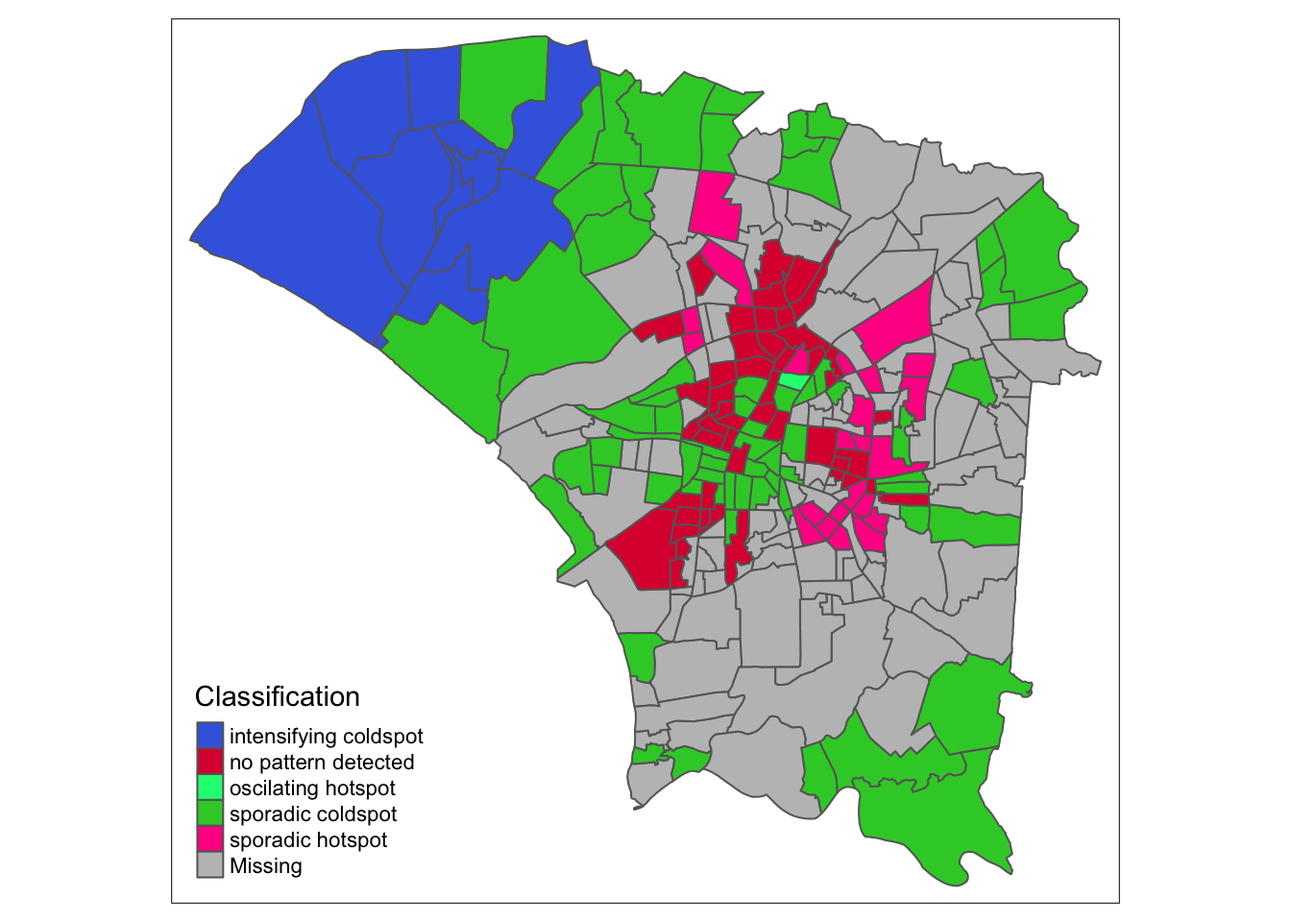
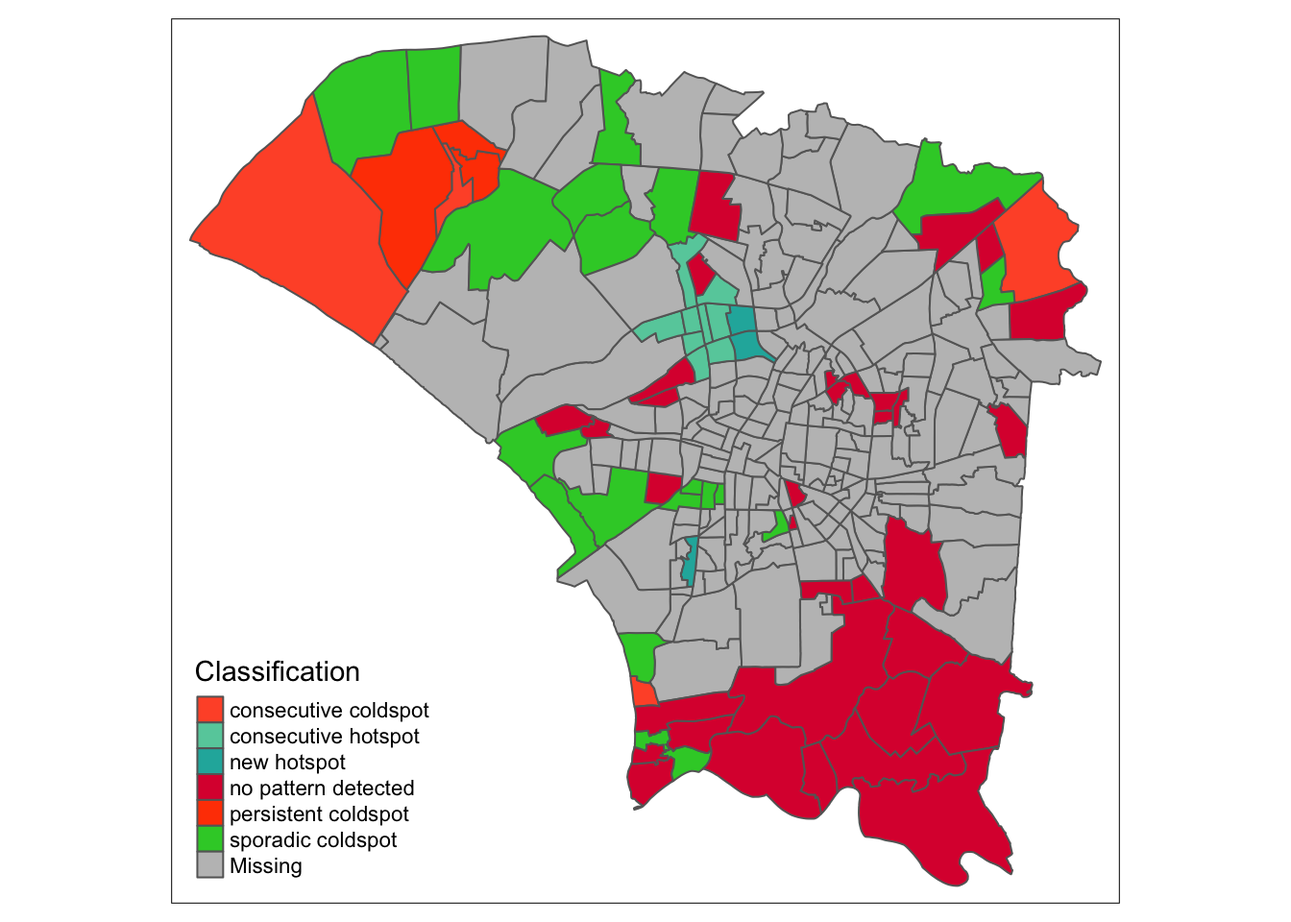
Writeups 4

Changed region(s): [[0.1562, 0.0312, 0.8125, 0.9688], [0.125, 0.7188, 0.3438, 0.9375], [0.6875, 0.1562, 0.8438, 0.375]]

diff --git a/_site/TakeHomeEx/TakeHomeEx2/THE2.html b/_site/TakeHomeEx/TakeHomeEx2/THE2.html
@@ -213,7 +213,11 @@ pre > code.sourceCode > span > a:first-child::before { text-decoration: underlin
     <h2 id="toc-title">On this page</h2>
    
   <ul>
-  <li><a href="#overview" id="toc-overview" class="nav-link active" data-scroll-target="#overview">1.0 Overview</a></li>
+  <li><a href="#overview" id="toc-overview" class="nav-link active" data-scroll-target="#overview">1.0 Overview</a>
+  <ul class="collapse">
+  <li><a href="#objectives" id="toc-objectives" class="nav-link" data-scroll-target="#objectives">1.1 Objectives</a></li>
+  <li><a href="#approach" id="toc-approach" class="nav-link" data-scroll-target="#approach">1.2 Approach</a></li>
+  </ul></li>
   <li><a href="#setup" id="toc-setup" class="nav-link" data-scroll-target="#setup">2.0 Setup</a>
   <ul class="collapse">
   <li><a href="#dependencies" id="toc-dependencies" class="nav-link" data-scroll-target="#dependencies">2.1 Dependencies</a></li>
@@ -246,7 +250,8 @@ pre > code.sourceCode > span > a:first-child::before { text-decoration: underlin
   <li><a href="#local-morans-i-plots" id="toc-local-morans-i-plots" class="nav-link" data-scroll-target="#local-morans-i-plots">6.2 Local Moran’s I Plots</a></li>
   <li><a href="#lisa-quadrant-map" id="toc-lisa-quadrant-map" class="nav-link" data-scroll-target="#lisa-quadrant-map">6.3 LISA Quadrant Map</a></li>
   </ul></li>
-  <li><a href="#ehsa" id="toc-ehsa" class="nav-link" data-scroll-target="#ehsa">7.0 EHSA</a>
+  <li><a href="#hot-and-cold-spot-analysis" id="toc-hot-and-cold-spot-analysis" class="nav-link" data-scroll-target="#hot-and-cold-spot-analysis">7.0 Hot and Cold Spot Analysis</a></li>
+  <li><a href="#emerging-hotspot-analysis" id="toc-emerging-hotspot-analysis" class="nav-link" data-scroll-target="#emerging-hotspot-analysis">7.0 Emerging Hotspot Analysis</a>
   <ul class="collapse">
   <li><a href="#choosing-time-horizons" id="toc-choosing-time-horizons" class="nav-link" data-scroll-target="#choosing-time-horizons">7.1 Choosing Time Horizons</a></li>
   <li><a href="#ehsa-maps" id="toc-ehsa-maps" class="nav-link" data-scroll-target="#ehsa-maps">7.2 EHSA Maps</a></li>
@@ -300,6 +305,24 @@ pre > code.sourceCode > span > a:first-child::before { text-decoration: underlin
 
 <section id="overview" class="level2">
 <h2 class="anchored" data-anchor-id="overview">1.0 Overview</h2>
+<section id="objectives" class="level3">
+<h3 class="anchored" data-anchor-id="objectives">1.1 Objectives</h3>
+<ol type="1">
+<li>Process the data and confine the analysis to D01, D02, D04, D06, D07, D08, D32 and D39 counties of Tainan City, Taiwan.</li>
+<li>Perform Global Spatial Autocorrelation with sfdep</li>
+<li>Perform Local Spatial Autocorrelation with sfdep</li>
+<li>Perform Emerging Hotspot Analysis with sdfep</li>
+<li>Describe the spatial patterns observed</li>
+</ol>
+</section>
+<section id="approach" class="level3">
+<h3 class="anchored" data-anchor-id="approach">1.2 Approach</h3>
+<ol type="1">
+<li>Besides the usual procedures like checking CRS, I will aggregate point data into counts, which will be used for Global and Spatial Autocorrelation measurements</li>
+<li>Global spatial autocorrelation should go beyond the frequentist approach</li>
+<li>Global and Spatial Autocorrelation measures can use the full range of epidemiology weeks 31-50, but EHSA should use other smaller ranges</li>
+</ol>
+</section>
 </section>
 <section id="setup" class="level2">
 <h2 class="anchored" data-anchor-id="setup">2.0 Setup</h2>
@@ -311,7 +334,7 @@ pre > code.sourceCode > span > a:first-child::before { text-decoration: underlin
 <li><p><strong>tmap</strong> Create thematic maps, particularly chloropleth maps in our case</p></li>
 <li><p><strong>tidyverse</strong> For easy data manipulation and some visualisation</p></li>
 <li><p><strong>ggplot2</strong> A step above the usual visualisations, like histograms</p></li>
-<li><p><strong>smoothr</strong> I use it to remove hole in geometry</p></li>
+<li><p><strong>smoothr</strong> I use it to remove holes in geometry</p></li>
 <li><p><strong>lubridate</strong> Makes handling dates easy, great for dealing with epidemiology weeks</p></li>
 <li><p><strong>sfdep</strong> Spatial dependence with spatial features, the highlight of this take home exercise. The spacetime object is particularly useful</p></li>
 </ol>
@@ -1001,8 +1024,30 @@ alternative hypothesis: two.sided</code></pre>
 </div>
 </section>
 </section>
-<section id="ehsa" class="level2">
-<h2 class="anchored" data-anchor-id="ehsa">7.0 EHSA</h2>
+<section id="hot-and-cold-spot-analysis" class="level2">
+<h2 class="anchored" data-anchor-id="hot-and-cold-spot-analysis">7.0 Hot and Cold Spot Analysis</h2>
+<div class="cell">
+<div class="sourceCode cell-code" id="cb74"><pre class="sourceCode r code-with-copy"><code class="sourceCode r"><span id="cb74-1"><a href="#cb74-1" aria-hidden="true" tabindex="-1"></a>hcsa <span class="ot">&lt;-</span> dengue_vils_gb_vc <span class="sc">%&gt;%</span> </span>
+<span id="cb74-2"><a href="#cb74-2" aria-hidden="true" tabindex="-1"></a>  <span class="fu">cbind</span>(<span class="fu">local_gstar_perm</span>(wm_q.count, wm_q.nb, wm_q.wt, <span class="at">nsim=</span><span class="dv">99</span>)) <span class="sc">%&gt;%</span></span>
+<span id="cb74-3"><a href="#cb74-3" aria-hidden="true" tabindex="-1"></a>  <span class="fu">mutate</span>(<span class="st">"p_sim"</span> <span class="ot">=</span> <span class="fu">replace</span>(<span class="st">`</span><span class="at">p_sim</span><span class="st">`</span>, <span class="st">`</span><span class="at">p_sim</span><span class="st">`</span> <span class="sc">&gt;</span> <span class="fl">0.05</span>, <span class="cn">NA</span>),</span>
+<span id="cb74-4"><a href="#cb74-4" aria-hidden="true" tabindex="-1"></a>         <span class="st">"gi_star"</span> <span class="ot">=</span> <span class="fu">ifelse</span>(<span class="fu">is.na</span>(<span class="st">`</span><span class="at">p_sim</span><span class="st">`</span>), <span class="cn">NA</span>, <span class="st">`</span><span class="at">gi_star</span><span class="st">`</span>))</span></code><button title="Copy to Clipboard" class="code-copy-button"><i class="bi"></i></button></pre></div>
+</div>
+<div class="cell">
+<div class="sourceCode cell-code" id="cb75"><pre class="sourceCode r code-with-copy"><code class="sourceCode r"><span id="cb75-1"><a href="#cb75-1" aria-hidden="true" tabindex="-1"></a><span class="fu">tmap_mode</span>(<span class="st">"plot"</span>)</span>
+<span id="cb75-2"><a href="#cb75-2" aria-hidden="true" tabindex="-1"></a><span class="fu">tm_shape</span>(hcsa) <span class="sc">+</span></span>
+<span id="cb75-3"><a href="#cb75-3" aria-hidden="true" tabindex="-1"></a>  <span class="fu">tm_fill</span>(<span class="st">"gi_star"</span>, <span class="at">palette=</span><span class="st">"PuOr"</span>, <span class="at">midpoint=</span><span class="dv">0</span>, <span class="at">title=</span><span class="st">"Gi*"</span>) <span class="sc">+</span> </span>
+<span id="cb75-4"><a href="#cb75-4" aria-hidden="true" tabindex="-1"></a>  <span class="fu">tm_borders</span>(<span class="at">alpha =</span> <span class="fl">0.5</span>)</span></code><button title="Copy to Clipboard" class="code-copy-button"><i class="bi"></i></button></pre></div>
+<div class="cell-output-display">
+<div>
+<figure class="figure">
+<p><img src="THE2_files/figure-html/unnamed-chunk-51-1.png" class="img-fluid figure-img" width="672"></p>
+</figure>
+</div>
+</div>
+</div>
+</section>
+<section id="emerging-hotspot-analysis" class="level2">
+<h2 class="anchored" data-anchor-id="emerging-hotspot-analysis">7.0 Emerging Hotspot Analysis</h2>
 <p>In this section, we can analyse hot and spot spots, as well which type of hot/cold spot they are.</p>
 <section id="choosing-time-horizons" class="level3">
 <h3 class="anchored" data-anchor-id="choosing-time-horizons">7.1 Choosing Time Horizons</h3>
@@ -1016,14 +1061,14 @@ alternative hypothesis: two.sided</code></pre>
 <li>Epiweek 50: When cases have dropped significantly (All of the spacetime object)</li>
 </ul>
 <div class="cell">
-<div class="sourceCode cell-code" id="cb74"><pre class="sourceCode r code-with-copy"><code class="sourceCode r"><span id="cb74-1"><a href="#cb74-1" aria-hidden="true" tabindex="-1"></a><span class="fu">ggplot</span>(spt, <span class="fu">aes</span>(<span class="at">x =</span> epi_week, <span class="at">y =</span> count)) <span class="sc">+</span></span>
-<span id="cb74-2"><a href="#cb74-2" aria-hidden="true" tabindex="-1"></a>  <span class="fu">geom_histogram</span>(<span class="at">binwidth =</span> <span class="dv">1</span>, <span class="at">fill =</span> <span class="st">"skyblue"</span>, <span class="at">stat =</span> <span class="st">"identity"</span>) <span class="sc">+</span></span>
-<span id="cb74-3"><a href="#cb74-3" aria-hidden="true" tabindex="-1"></a>  <span class="fu">labs</span>(<span class="at">x =</span> <span class="st">"Epi Week"</span>, <span class="at">y =</span> <span class="st">"Count"</span>) <span class="sc">+</span></span>
-<span id="cb74-4"><a href="#cb74-4" aria-hidden="true" tabindex="-1"></a>  <span class="fu">ggtitle</span>(<span class="st">"Histogram of Epi Week"</span>)</span></code><button title="Copy to Clipboard" class="code-copy-button"><i class="bi"></i></button></pre></div>
+<div class="sourceCode cell-code" id="cb76"><pre class="sourceCode r code-with-copy"><code class="sourceCode r"><span id="cb76-1"><a href="#cb76-1" aria-hidden="true" tabindex="-1"></a><span class="fu">ggplot</span>(spt, <span class="fu">aes</span>(<span class="at">x =</span> epi_week, <span class="at">y =</span> count)) <span class="sc">+</span></span>
+<span id="cb76-2"><a href="#cb76-2" aria-hidden="true" tabindex="-1"></a>  <span class="fu">geom_histogram</span>(<span class="at">binwidth =</span> <span class="dv">1</span>, <span class="at">fill =</span> <span class="st">"skyblue"</span>, <span class="at">stat =</span> <span class="st">"identity"</span>) <span class="sc">+</span></span>
+<span id="cb76-3"><a href="#cb76-3" aria-hidden="true" tabindex="-1"></a>  <span class="fu">labs</span>(<span class="at">x =</span> <span class="st">"Epi Week"</span>, <span class="at">y =</span> <span class="st">"Count"</span>) <span class="sc">+</span></span>
+<span id="cb76-4"><a href="#cb76-4" aria-hidden="true" tabindex="-1"></a>  <span class="fu">ggtitle</span>(<span class="st">"Histogram of Epi Week"</span>)</span></code><button title="Copy to Clipboard" class="code-copy-button"><i class="bi"></i></button></pre></div>
 <div class="cell-output-display">
 <div>
 <figure class="figure">
-<p><img src="THE2_files/figure-html/unnamed-chunk-50-1.png" class="img-fluid figure-img" width="672"></p>
+<p><img src="THE2_files/figure-html/unnamed-chunk-52-1.png" class="img-fluid figure-img" width="672"></p>
 </figure>
 </div>
 </div>
@@ -1032,67 +1077,67 @@ alternative hypothesis: two.sided</code></pre>
 <div class="cell">
 <details class="code-fold">
 <summary>Show the code</summary>
-<div class="sourceCode cell-code" id="cb75"><pre class="sourceCode r code-with-copy"><code class="sourceCode r"><span id="cb75-1"><a href="#cb75-1" aria-hidden="true" tabindex="-1"></a>create_color_mapping <span class="ot">&lt;-</span> <span class="cf">function</span>(all_breaks, all_colors, map_breaks) {</span>
-<span id="cb75-2"><a href="#cb75-2" aria-hidden="true" tabindex="-1"></a>  color_mapping <span class="ot">&lt;-</span> <span class="fu">rep</span>(<span class="cn">NA</span>, <span class="fu">length</span>(map_breaks))</span>
-<span id="cb75-3"><a href="#cb75-3" aria-hidden="true" tabindex="-1"></a>  <span class="cf">for</span> (i <span class="cf">in</span> <span class="fu">seq_along</span>(map_breaks)) {</span>
-<span id="cb75-4"><a href="#cb75-4" aria-hidden="true" tabindex="-1"></a>    match_index <span class="ot">&lt;-</span> <span class="fu">match</span>(map_breaks[i], all_breaks)</span>
-<span id="cb75-5"><a href="#cb75-5" aria-hidden="true" tabindex="-1"></a>    <span class="cf">if</span> (<span class="sc">!</span><span class="fu">is.na</span>(match_index)) {</span>
-<span id="cb75-6"><a href="#cb75-6" aria-hidden="true" tabindex="-1"></a>      color_mapping[i] <span class="ot">&lt;-</span> all_colors[match_index]</span>
-<span id="cb75-7"><a href="#cb75-7" aria-hidden="true" tabindex="-1"></a>    }</span>
-<span id="cb75-8"><a href="#cb75-8" aria-hidden="true" tabindex="-1"></a>  }</span>
-<span id="cb75-9"><a href="#cb75-9" aria-hidden="true" tabindex="-1"></a>  <span class="fu">return</span>(color_mapping)</span>
-<span id="cb75-10"><a href="#cb75-10" aria-hidden="true" tabindex="-1"></a>}</span>
-<span id="cb75-11"><a href="#cb75-11" aria-hidden="true" tabindex="-1"></a></span>
-<span id="cb75-12"><a href="#cb75-12" aria-hidden="true" tabindex="-1"></a>all_breaks <span class="ot">&lt;-</span> <span class="fu">c</span>(<span class="st">"consecutive coldspot"</span>, <span class="st">"consecutive hotspot"</span>, <span class="st">"new coldspot"</span>, <span class="st">"new hotspot"</span>, <span class="st">"no pattern detected"</span>, <span class="st">"intensifying coldspot"</span>, <span class="st">"intensifying hotspot"</span>, <span class="st">"oscilating coldspot"</span>, <span class="st">"oscilating hotspot"</span>, <span class="st">"persistent coldspot"</span>, <span class="st">"persistent hotspot"</span>, <span class="st">"sporadic coldspot"</span>, <span class="st">"sporadic hotspot"</span></span>
-<span id="cb75-13"><a href="#cb75-13" aria-hidden="true" tabindex="-1"></a>)</span>
-<span id="cb75-14"><a href="#cb75-14" aria-hidden="true" tabindex="-1"></a></span>
-<span id="cb75-15"><a href="#cb75-15" aria-hidden="true" tabindex="-1"></a>all_colors <span class="ot">&lt;-</span> <span class="fu">c</span>(<span class="st">"#FF5733"</span>, <span class="st">"#66CDAA"</span>, <span class="st">"#BA55D3"</span>, <span class="st">"#20B2AA"</span>, <span class="st">"#DC143C"</span>, <span class="st">"#4169E1"</span>, <span class="st">"#8A2BE2"</span>, <span class="st">"#FFD700"</span>, <span class="st">"#00FF7F"</span>, <span class="st">"#FF4500"</span>, <span class="st">"#9932CC"</span>, <span class="st">"#32CD32"</span>, <span class="st">"#FF1493"</span></span>
-<span id="cb75-16"><a href="#cb75-16" aria-hidden="true" tabindex="-1"></a>)</span></code><button title="Copy to Clipboard" class="code-copy-button"><i class="bi"></i></button></pre></div>
+<div class="sourceCode cell-code" id="cb77"><pre class="sourceCode r code-with-copy"><code class="sourceCode r"><span id="cb77-1"><a href="#cb77-1" aria-hidden="true" tabindex="-1"></a>create_color_mapping <span class="ot">&lt;-</span> <span class="cf">function</span>(all_breaks, all_colors, map_breaks) {</span>
+<span id="cb77-2"><a href="#cb77-2" aria-hidden="true" tabindex="-1"></a>  color_mapping <span class="ot">&lt;-</span> <span class="fu">rep</span>(<span class="cn">NA</span>, <span class="fu">length</span>(map_breaks))</span>
+<span id="cb77-3"><a href="#cb77-3" aria-hidden="true" tabindex="-1"></a>  <span class="cf">for</span> (i <span class="cf">in</span> <span class="fu">seq_along</span>(map_breaks)) {</span>
+<span id="cb77-4"><a href="#cb77-4" aria-hidden="true" tabindex="-1"></a>    match_index <span class="ot">&lt;-</span> <span class="fu">match</span>(map_breaks[i], all_breaks)</span>
+<span id="cb77-5"><a href="#cb77-5" aria-hidden="true" tabindex="-1"></a>    <span class="cf">if</span> (<span class="sc">!</span><span class="fu">is.na</span>(match_index)) {</span>
+<span id="cb77-6"><a href="#cb77-6" aria-hidden="true" tabindex="-1"></a>      color_mapping[i] <span class="ot">&lt;-</span> all_colors[match_index]</span>
+<span id="cb77-7"><a href="#cb77-7" aria-hidden="true" tabindex="-1"></a>    }</span>
+<span id="cb77-8"><a href="#cb77-8" aria-hidden="true" tabindex="-1"></a>  }</span>
+<span id="cb77-9"><a href="#cb77-9" aria-hidden="true" tabindex="-1"></a>  <span class="fu">return</span>(color_mapping)</span>
+<span id="cb77-10"><a href="#cb77-10" aria-hidden="true" tabindex="-1"></a>}</span>
+<span id="cb77-11"><a href="#cb77-11" aria-hidden="true" tabindex="-1"></a></span>
+<span id="cb77-12"><a href="#cb77-12" aria-hidden="true" tabindex="-1"></a>all_breaks <span class="ot">&lt;-</span> <span class="fu">c</span>(<span class="st">"consecutive coldspot"</span>, <span class="st">"consecutive hotspot"</span>, <span class="st">"new coldspot"</span>, <span class="st">"new hotspot"</span>, <span class="st">"no pattern detected"</span>, <span class="st">"intensifying coldspot"</span>, <span class="st">"intensifying hotspot"</span>, <span class="st">"oscilating coldspot"</span>, <span class="st">"oscilating hotspot"</span>, <span class="st">"persistent coldspot"</span>, <span class="st">"persistent hotspot"</span>, <span class="st">"sporadic coldspot"</span>, <span class="st">"sporadic hotspot"</span></span>
+<span id="cb77-13"><a href="#cb77-13" aria-hidden="true" tabindex="-1"></a>)</span>
+<span id="cb77-14"><a href="#cb77-14" aria-hidden="true" tabindex="-1"></a></span>
+<span id="cb77-15"><a href="#cb77-15" aria-hidden="true" tabindex="-1"></a>all_colors <span class="ot">&lt;-</span> <span class="fu">c</span>(<span class="st">"#FF5733"</span>, <span class="st">"#66CDAA"</span>, <span class="st">"#BA55D3"</span>, <span class="st">"#20B2AA"</span>, <span class="st">"#DC143C"</span>, <span class="st">"#4169E1"</span>, <span class="st">"#8A2BE2"</span>, <span class="st">"#FFD700"</span>, <span class="st">"#00FF7F"</span>, <span class="st">"#FF4500"</span>, <span class="st">"#9932CC"</span>, <span class="st">"#32CD32"</span>, <span class="st">"#FF1493"</span></span>
+<span id="cb77-16"><a href="#cb77-16" aria-hidden="true" tabindex="-1"></a>)</span></code><button title="Copy to Clipboard" class="code-copy-button"><i class="bi"></i></button></pre></div>
 </details>
 </div>
 <p>The rule of “Do not repeat yourself” applies in R too. I have learnt from my previous takehome exercise and will use functions for repeated analysis to avoid duplicated code.</p>
 <div class="cell">
 <details class="code-fold">
 <summary>Show the code</summary>
-<div class="sourceCode cell-code" id="cb76"><pre class="sourceCode r code-with-copy"><code class="sourceCode r"><span id="cb76-1"><a href="#cb76-1" aria-hidden="true" tabindex="-1"></a>ehsa_4_spt <span class="ot">&lt;-</span> <span class="cf">function</span>(sptcube, week_lim, geom) {</span>
-<span id="cb76-2"><a href="#cb76-2" aria-hidden="true" tabindex="-1"></a>  spt_n <span class="ot">&lt;-</span> <span class="fu">filter</span>(spt, epi_week <span class="sc">&lt;=</span> week_lim)</span>
-<span id="cb76-3"><a href="#cb76-3" aria-hidden="true" tabindex="-1"></a>  </span>
-<span id="cb76-4"><a href="#cb76-4" aria-hidden="true" tabindex="-1"></a>  spt_nb <span class="ot">&lt;-</span> spt_n <span class="sc">%&gt;%</span></span>
-<span id="cb76-5"><a href="#cb76-5" aria-hidden="true" tabindex="-1"></a>  <span class="fu">activate</span>(<span class="st">"geometry"</span>) <span class="sc">%&gt;%</span> </span>
-<span id="cb76-6"><a href="#cb76-6" aria-hidden="true" tabindex="-1"></a>  <span class="fu">mutate</span>(<span class="at">nb =</span> <span class="fu">include_self</span>(<span class="fu">st_contiguity</span>(geometry)),</span>
-<span id="cb76-7"><a href="#cb76-7" aria-hidden="true" tabindex="-1"></a>         <span class="at">wt =</span> <span class="fu">st_inverse_distance</span>(nb, geometry,</span>
-<span id="cb76-8"><a href="#cb76-8" aria-hidden="true" tabindex="-1"></a>                                  <span class="at">scale =</span> <span class="dv">1</span>,</span>
-<span id="cb76-9"><a href="#cb76-9" aria-hidden="true" tabindex="-1"></a>                                  <span class="at">alpha =</span> <span class="dv">1</span>),</span>
-<span id="cb76-10"><a href="#cb76-10" aria-hidden="true" tabindex="-1"></a>         <span class="at">.before =</span> <span class="dv">1</span>) <span class="sc">%&gt;%</span>  </span>
-<span id="cb76-11"><a href="#cb76-11" aria-hidden="true" tabindex="-1"></a>  <span class="fu">set_wts</span>(<span class="st">"wt"</span>) <span class="sc">%&gt;%</span></span>
-<span id="cb76-12"><a href="#cb76-12" aria-hidden="true" tabindex="-1"></a>  <span class="fu">set_nbs</span>(<span class="st">"nb"</span>)</span>
-<span id="cb76-13"><a href="#cb76-13" aria-hidden="true" tabindex="-1"></a>  </span>
-<span id="cb76-14"><a href="#cb76-14" aria-hidden="true" tabindex="-1"></a>  EHSA <span class="ot">&lt;-</span> <span class="fu">emerging_hotspot_analysis</span>(</span>
-<span id="cb76-15"><a href="#cb76-15" aria-hidden="true" tabindex="-1"></a>    <span class="at">x =</span> spt_n, </span>
-<span id="cb76-16"><a href="#cb76-16" aria-hidden="true" tabindex="-1"></a>    <span class="at">.var =</span> <span class="st">"count"</span>, </span>
-<span id="cb76-17"><a href="#cb76-17" aria-hidden="true" tabindex="-1"></a>    <span class="at">k =</span> <span class="dv">1</span>, </span>
-<span id="cb76-18"><a href="#cb76-18" aria-hidden="true" tabindex="-1"></a>    <span class="at">nsim =</span> <span class="dv">99</span></span>
-<span id="cb76-19"><a href="#cb76-19" aria-hidden="true" tabindex="-1"></a>  )</span>
-<span id="cb76-20"><a href="#cb76-20" aria-hidden="true" tabindex="-1"></a>  </span>
-<span id="cb76-21"><a href="#cb76-21" aria-hidden="true" tabindex="-1"></a>  gghist <span class="ot">&lt;-</span> <span class="fu">ggplot</span>(<span class="at">data =</span> EHSA,</span>
-<span id="cb76-22"><a href="#cb76-22" aria-hidden="true" tabindex="-1"></a>       <span class="fu">aes</span>(<span class="at">x =</span> classification)) <span class="sc">+</span></span>
-<span id="cb76-23"><a href="#cb76-23" aria-hidden="true" tabindex="-1"></a>  <span class="fu">geom_bar</span>(<span class="at">fill=</span><span class="st">"light blue"</span>) <span class="sc">+</span> </span>
-<span id="cb76-24"><a href="#cb76-24" aria-hidden="true" tabindex="-1"></a>    <span class="fu">coord_flip</span>()</span>
-<span id="cb76-25"><a href="#cb76-25" aria-hidden="true" tabindex="-1"></a>  </span>
-<span id="cb76-26"><a href="#cb76-26" aria-hidden="true" tabindex="-1"></a>  twv_EHSA <span class="ot">&lt;-</span> twvsz <span class="sc">%&gt;%</span></span>
-<span id="cb76-27"><a href="#cb76-27" aria-hidden="true" tabindex="-1"></a>  <span class="fu">left_join</span>(EHSA,</span>
-<span id="cb76-28"><a href="#cb76-28" aria-hidden="true" tabindex="-1"></a>            <span class="at">by =</span> <span class="fu">c</span>(<span class="st">"VILLCODE"</span> <span class="ot">=</span> <span class="st">"location"</span>)) <span class="sc">%&gt;%</span></span>
-<span id="cb76-29"><a href="#cb76-29" aria-hidden="true" tabindex="-1"></a>   <span class="fu">mutate</span>(<span class="st">`</span><span class="at">p_value</span><span class="st">`</span> <span class="ot">=</span> <span class="fu">replace</span>(<span class="st">`</span><span class="at">p_value</span><span class="st">`</span>, <span class="st">`</span><span class="at">p_value</span><span class="st">`</span> <span class="sc">&gt;</span> <span class="fl">0.05</span>, <span class="cn">NA</span>),</span>
-<span id="cb76-30"><a href="#cb76-30" aria-hidden="true" tabindex="-1"></a>          <span class="st">`</span><span class="at">classification</span><span class="st">`</span> <span class="ot">=</span> <span class="fu">ifelse</span>(<span class="fu">is.na</span>(<span class="st">`</span><span class="at">p_value</span><span class="st">`</span>), <span class="cn">NA</span>, <span class="st">`</span><span class="at">classification</span><span class="st">`</span>))</span>
-<span id="cb76-31"><a href="#cb76-31" aria-hidden="true" tabindex="-1"></a>  </span>
-<span id="cb76-32"><a href="#cb76-32" aria-hidden="true" tabindex="-1"></a>  <span class="fu">plot</span>(gghist)</span>
-<span id="cb76-33"><a href="#cb76-33" aria-hidden="true" tabindex="-1"></a>  </span>
-<span id="cb76-34"><a href="#cb76-34" aria-hidden="true" tabindex="-1"></a>  color_mapping <span class="ot">&lt;-</span> <span class="fu">create_color_mapping</span>(all_breaks, all_colors, <span class="fu">sort</span>(<span class="fu">unique</span>(twv_EHSA<span class="sc">$</span>classification)))</span>
-<span id="cb76-35"><a href="#cb76-35" aria-hidden="true" tabindex="-1"></a>  </span>
-<span id="cb76-36"><a href="#cb76-36" aria-hidden="true" tabindex="-1"></a>  <span class="fu">tm_shape</span>(twv_EHSA) <span class="sc">+</span></span>
-<span id="cb76-37"><a href="#cb76-37" aria-hidden="true" tabindex="-1"></a>    <span class="fu">tm_fill</span>(<span class="at">col =</span> <span class="st">"classification"</span>, <span class="at">title =</span> <span class="st">"Classification"</span>, <span class="at">palette =</span> color_mapping) <span class="sc">+</span></span>
-<span id="cb76-38"><a href="#cb76-38" aria-hidden="true" tabindex="-1"></a>    <span class="fu">tm_borders</span>()</span>
-<span id="cb76-39"><a href="#cb76-39" aria-hidden="true" tabindex="-1"></a>}</span></code><button title="Copy to Clipboard" class="code-copy-button"><i class="bi"></i></button></pre></div>
+<div class="sourceCode cell-code" id="cb78"><pre class="sourceCode r code-with-copy"><code class="sourceCode r"><span id="cb78-1"><a href="#cb78-1" aria-hidden="true" tabindex="-1"></a>ehsa_4_spt <span class="ot">&lt;-</span> <span class="cf">function</span>(sptcube, week_lim, geom) {</span>
+<span id="cb78-2"><a href="#cb78-2" aria-hidden="true" tabindex="-1"></a>  spt_n <span class="ot">&lt;-</span> <span class="fu">filter</span>(spt, epi_week <span class="sc">&lt;=</span> week_lim)</span>
+<span id="cb78-3"><a href="#cb78-3" aria-hidden="true" tabindex="-1"></a>  </span>
+<span id="cb78-4"><a href="#cb78-4" aria-hidden="true" tabindex="-1"></a>  spt_nb <span class="ot">&lt;-</span> spt_n <span class="sc">%&gt;%</span></span>
+<span id="cb78-5"><a href="#cb78-5" aria-hidden="true" tabindex="-1"></a>  <span class="fu">activate</span>(<span class="st">"geometry"</span>) <span class="sc">%&gt;%</span> </span>
+<span id="cb78-6"><a href="#cb78-6" aria-hidden="true" tabindex="-1"></a>  <span class="fu">mutate</span>(<span class="at">nb =</span> <span class="fu">include_self</span>(<span class="fu">st_contiguity</span>(geometry)),</span>
+<span id="cb78-7"><a href="#cb78-7" aria-hidden="true" tabindex="-1"></a>         <span class="at">wt =</span> <span class="fu">st_inverse_distance</span>(nb, geometry,</span>
+<span id="cb78-8"><a href="#cb78-8" aria-hidden="true" tabindex="-1"></a>                                  <span class="at">scale =</span> <span class="dv">1</span>,</span>
+<span id="cb78-9"><a href="#cb78-9" aria-hidden="true" tabindex="-1"></a>                                  <span class="at">alpha =</span> <span class="dv">1</span>),</span>
+<span id="cb78-10"><a href="#cb78-10" aria-hidden="true" tabindex="-1"></a>         <span class="at">.before =</span> <span class="dv">1</span>) <span class="sc">%&gt;%</span>  </span>
+<span id="cb78-11"><a href="#cb78-11" aria-hidden="true" tabindex="-1"></a>  <span class="fu">set_wts</span>(<span class="st">"wt"</span>) <span class="sc">%&gt;%</span></span>
+<span id="cb78-12"><a href="#cb78-12" aria-hidden="true" tabindex="-1"></a>  <span class="fu">set_nbs</span>(<span class="st">"nb"</span>)</span>
+<span id="cb78-13"><a href="#cb78-13" aria-hidden="true" tabindex="-1"></a>  </span>
+<span id="cb78-14"><a href="#cb78-14" aria-hidden="true" tabindex="-1"></a>  EHSA <span class="ot">&lt;-</span> <span class="fu">emerging_hotspot_analysis</span>(</span>
+<span id="cb78-15"><a href="#cb78-15" aria-hidden="true" tabindex="-1"></a>    <span class="at">x =</span> spt_n, </span>
+<span id="cb78-16"><a href="#cb78-16" aria-hidden="true" tabindex="-1"></a>    <span class="at">.var =</span> <span class="st">"count"</span>, </span>
+<span id="cb78-17"><a href="#cb78-17" aria-hidden="true" tabindex="-1"></a>    <span class="at">k =</span> <span class="dv">1</span>, </span>
+<span id="cb78-18"><a href="#cb78-18" aria-hidden="true" tabindex="-1"></a>    <span class="at">nsim =</span> <span class="dv">99</span></span>
+<span id="cb78-19"><a href="#cb78-19" aria-hidden="true" tabindex="-1"></a>  )</span>
+<span id="cb78-20"><a href="#cb78-20" aria-hidden="true" tabindex="-1"></a>  </span>
+<span id="cb78-21"><a href="#cb78-21" aria-hidden="true" tabindex="-1"></a>  gghist <span class="ot">&lt;-</span> <span class="fu">ggplot</span>(<span class="at">data =</span> EHSA,</span>
+<span id="cb78-22"><a href="#cb78-22" aria-hidden="true" tabindex="-1"></a>       <span class="fu">aes</span>(<span class="at">x =</span> classification)) <span class="sc">+</span></span>
+<span id="cb78-23"><a href="#cb78-23" aria-hidden="true" tabindex="-1"></a>  <span class="fu">geom_bar</span>(<span class="at">fill=</span><span class="st">"light blue"</span>) <span class="sc">+</span> </span>
+<span id="cb78-24"><a href="#cb78-24" aria-hidden="true" tabindex="-1"></a>    <span class="fu">coord_flip</span>()</span>
+<span id="cb78-25"><a href="#cb78-25" aria-hidden="true" tabindex="-1"></a>  </span>
+<span id="cb78-26"><a href="#cb78-26" aria-hidden="true" tabindex="-1"></a>  twv_EHSA <span class="ot">&lt;-</span> twvsz <span class="sc">%&gt;%</span></span>
+<span id="cb78-27"><a href="#cb78-27" aria-hidden="true" tabindex="-1"></a>  <span class="fu">left_join</span>(EHSA,</span>
+<span id="cb78-28"><a href="#cb78-28" aria-hidden="true" tabindex="-1"></a>            <span class="at">by =</span> <span class="fu">c</span>(<span class="st">"VILLCODE"</span> <span class="ot">=</span> <span class="st">"location"</span>)) <span class="sc">%&gt;%</span></span>
+<span id="cb78-29"><a href="#cb78-29" aria-hidden="true" tabindex="-1"></a>   <span class="fu">mutate</span>(<span class="st">`</span><span class="at">p_value</span><span class="st">`</span> <span class="ot">=</span> <span class="fu">replace</span>(<span class="st">`</span><span class="at">p_value</span><span class="st">`</span>, <span class="st">`</span><span class="at">p_value</span><span class="st">`</span> <span class="sc">&gt;</span> <span class="fl">0.05</span>, <span class="cn">NA</span>),</span>
+<span id="cb78-30"><a href="#cb78-30" aria-hidden="true" tabindex="-1"></a>          <span class="st">`</span><span class="at">classification</span><span class="st">`</span> <span class="ot">=</span> <span class="fu">ifelse</span>(<span class="fu">is.na</span>(<span class="st">`</span><span class="at">p_value</span><span class="st">`</span>), <span class="cn">NA</span>, <span class="st">`</span><span class="at">classification</span><span class="st">`</span>))</span>
+<span id="cb78-31"><a href="#cb78-31" aria-hidden="true" tabindex="-1"></a>  </span>
+<span id="cb78-32"><a href="#cb78-32" aria-hidden="true" tabindex="-1"></a>  <span class="fu">plot</span>(gghist)</span>
+<span id="cb78-33"><a href="#cb78-33" aria-hidden="true" tabindex="-1"></a>  </span>
+<span id="cb78-34"><a href="#cb78-34" aria-hidden="true" tabindex="-1"></a>  color_mapping <span class="ot">&lt;-</span> <span class="fu">create_color_mapping</span>(all_breaks, all_colors, <span class="fu">sort</span>(<span class="fu">unique</span>(twv_EHSA<span class="sc">$</span>classification)))</span>
+<span id="cb78-35"><a href="#cb78-35" aria-hidden="true" tabindex="-1"></a>  </span>
+<span id="cb78-36"><a href="#cb78-36" aria-hidden="true" tabindex="-1"></a>  <span class="fu">tm_shape</span>(twv_EHSA) <span class="sc">+</span></span>
+<span id="cb78-37"><a href="#cb78-37" aria-hidden="true" tabindex="-1"></a>    <span class="fu">tm_fill</span>(<span class="at">col =</span> <span class="st">"classification"</span>, <span class="at">title =</span> <span class="st">"Classification"</span>, <span class="at">palette =</span> color_mapping) <span class="sc">+</span></span>
+<span id="cb78-38"><a href="#cb78-38" aria-hidden="true" tabindex="-1"></a>    <span class="fu">tm_borders</span>()</span>
+<span id="cb78-39"><a href="#cb78-39" aria-hidden="true" tabindex="-1"></a>}</span></code><button title="Copy to Clipboard" class="code-copy-button"><i class="bi"></i></button></pre></div>
 </details>
 </div>
 </section>
@@ -1104,45 +1149,7 @@ alternative hypothesis: two.sided</code></pre>
 <div class="tab-content">
 <div id="tabset-2-1" class="tab-pane active" role="tabpanel" aria-labelledby="tabset-2-1-tab">
 <div class="cell">
-<div class="sourceCode cell-code" id="cb77"><pre class="sourceCode r code-with-copy"><code class="sourceCode r"><span id="cb77-1"><a href="#cb77-1" aria-hidden="true" tabindex="-1"></a><span class="fu">ehsa_4_spt</span>(spt, <span class="dv">35</span>, twvsz)</span></code><button title="Copy to Clipboard" class="code-copy-button"><i class="bi"></i></button></pre></div>
-<div class="cell-output-display">
-<div>
-<figure class="figure">
-<p><img src="THE2_files/figure-html/unnamed-chunk-53-1.png" class="img-fluid figure-img" width="672"></p>
-</figure>
-</div>
-</div>
-<div class="cell-output-display">
-<div>
-<figure class="figure">
-<p><img src="THE2_files/figure-html/unnamed-chunk-53-2.png" class="img-fluid figure-img" width="672"></p>
-</figure>
-</div>
-</div>
-</div>
-</div>
-<div id="tabset-2-2" class="tab-pane" role="tabpanel" aria-labelledby="tabset-2-2-tab">
-<div class="cell">
-<div class="sourceCode cell-code" id="cb78"><pre class="sourceCode r code-with-copy"><code class="sourceCode r"><span id="cb78-1"><a href="#cb78-1" aria-hidden="true" tabindex="-1"></a><span class="fu">ehsa_4_spt</span>(spt, <span class="dv">39</span>, twvsz)</span></code><button title="Copy to Clipboard" class="code-copy-button"><i class="bi"></i></button></pre></div>
-<div class="cell-output-display">
-<div>
-<figure class="figure">
-<p><img src="THE2_files/figure-html/unnamed-chunk-54-1.png" class="img-fluid figure-img" width="672"></p>
-</figure>
-</div>
-</div>
-<div class="cell-output-display">
-<div>
-<figure class="figure">
-<p><img src="THE2_files/figure-html/unnamed-chunk-54-2.png" class="img-fluid figure-img" width="672"></p>
-</figure>
-</div>
-</div>
-</div>
-</div>
-<div id="tabset-2-3" class="tab-pane" role="tabpanel" aria-labelledby="tabset-2-3-tab">
-<div class="cell">
-<div class="sourceCode cell-code" id="cb79"><pre class="sourceCode r code-with-copy"><code class="sourceCode r"><span id="cb79-1"><a href="#cb79-1" aria-hidden="true" tabindex="-1"></a><span class="fu">ehsa_4_spt</span>(spt, <span class="dv">45</span>, twvsz)</span></code><button title="Copy to Clipboard" class="code-copy-button"><i class="bi"></i></button></pre></div>
+<div class="sourceCode cell-code" id="cb79"><pre class="sourceCode r code-with-copy"><code class="sourceCode r"><span id="cb79-1"><a href="#cb79-1" aria-hidden="true" tabindex="-1"></a><span class="fu">ehsa_4_spt</span>(spt, <span class="dv">35</span>, twvsz)</span></code><button title="Copy to Clipboard" class="code-copy-button"><i class="bi"></i></button></pre></div>
 <div class="cell-output-display">
 <div>
 <figure class="figure">
@@ -1159,9 +1166,9 @@ alternative hypothesis: two.sided</code></pre>
 </div>
 </div>
 </div>
-<div id="tabset-2-4" class="tab-pane" role="tabpanel" aria-labelledby="tabset-2-4-tab">
+<div id="tabset-2-2" class="tab-pane" role="tabpanel" aria-labelledby="tabset-2-2-tab">
 <div class="cell">
-<div class="sourceCode cell-code" id="cb80"><pre class="sourceCode r code-with-copy"><code class="sourceCode r"><span id="cb80-1"><a href="#cb80-1" aria-hidden="true" tabindex="-1"></a><span class="fu">ehsa_4_spt</span>(spt, <span class="dv">50</span>, twvsz)</span></code><button title="Copy to Clipboard" class="code-copy-button"><i class="bi"></i></button></pre></div>
+<div class="sourceCode cell-code" id="cb80"><pre class="sourceCode r code-with-copy"><code class="sourceCode r"><span id="cb80-1"><a href="#cb80-1" aria-hidden="true" tabindex="-1"></a><span class="fu">ehsa_4_spt</span>(spt, <span class="dv">39</span>, twvsz)</span></code><button title="Copy to Clipboard" class="code-copy-button"><i class="bi"></i></button></pre></div>
 <div class="cell-output-display">
 <div>
 <figure class="figure">
@@ -1173,6 +1180,44 @@ alternative hypothesis: two.sided</code></pre>
 <div>
 <figure class="figure">
 <p><img src="THE2_files/figure-html/unnamed-chunk-56-2.png" class="img-fluid figure-img" width="672"></p>
+</figure>
+</div>
+</div>
+</div>
+</div>
+<div id="tabset-2-3" class="tab-pane" role="tabpanel" aria-labelledby="tabset-2-3-tab">
+<div class="cell">
+<div class="sourceCode cell-code" id="cb81"><pre class="sourceCode r code-with-copy"><code class="sourceCode r"><span id="cb81-1"><a href="#cb81-1" aria-hidden="true" tabindex="-1"></a><span class="fu">ehsa_4_spt</span>(spt, <span class="dv">45</span>, twvsz)</span></code><button title="Copy to Clipboard" class="code-copy-button"><i class="bi"></i></button></pre></div>
+<div class="cell-output-display">
+<div>
+<figure class="figure">
+<p><img src="THE2_files/figure-html/unnamed-chunk-57-1.png" class="img-fluid figure-img" width="672"></p>
+</figure>
+</div>
+</div>
+<div class="cell-output-display">
+<div>
+<figure class="figure">
+<p><img src="THE2_files/figure-html/unnamed-chunk-57-2.png" class="img-fluid figure-img" width="672"></p>
+</figure>
+</div>
+</div>
+</div>
+</div>
+<div id="tabset-2-4" class="tab-pane" role="tabpanel" aria-labelledby="tabset-2-4-tab">
+<div class="cell">
+<div class="sourceCode cell-code" id="cb82"><pre class="sourceCode r code-with-copy"><code class="sourceCode r"><span id="cb82-1"><a href="#cb82-1" aria-hidden="true" tabindex="-1"></a><span class="fu">ehsa_4_spt</span>(spt, <span class="dv">50</span>, twvsz)</span></code><button title="Copy to Clipboard" class="code-copy-button"><i class="bi"></i></button></pre></div>
+<div class="cell-output-display">
+<div>
+<figure class="figure">
+<p><img src="THE2_files/figure-html/unnamed-chunk-58-1.png" class="img-fluid figure-img" width="672"></p>
+</figure>
+</div>
+</div>
+<div class="cell-output-display">
+<div>
+<figure class="figure">
+<p><img src="THE2_files/figure-html/unnamed-chunk-58-2.png" class="img-fluid figure-img" width="672"></p>
 </figure>
 </div>
 </div>
